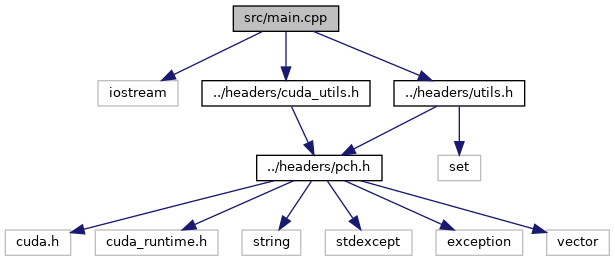
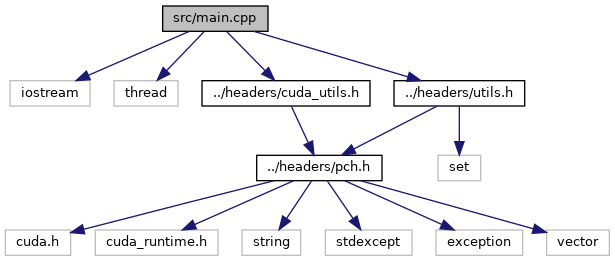
Updated doc

diff --git a/Documentation/html/main_8cpp.html b/Documentation/html/main_8cpp.html
@@ -77,6 +77,7 @@ $(function() {
 <p>Main file.  
 <a href="#details">More...</a></p>
 <div class="textblock"><code>#include &lt;iostream&gt;</code><br />
+<code>#include &lt;thread&gt;</code><br />
 <code>#include &quot;<a class="el" href="cuda__utils_8h_source.html">../headers/cuda_utils.h</a>&quot;</code><br />
 <code>#include &quot;<a class="el" href="utils_8h_source.html">../headers/utils.h</a>&quot;</code><br />
 </div><div class="textblock"><div class="dynheader">
@@ -84,8 +85,9 @@ Include dependency graph for main.cpp:</div>
 <div class="dyncontent">
 <div class="center"><img src="main_8cpp__incl.png" border="0" usemap="#asrc_2main_8cpp" alt=""/></div>
 <map name="asrc_2main_8cpp" id="asrc_2main_8cpp">
-<area shape="rect" title="Main file." alt="" coords="233,5,339,32"/>
-<area shape="rect" title=" " alt="" coords="98,80,178,107"/>
+<area shape="rect" title="Main file." alt="" coords="163,5,268,32"/>
+<area shape="rect" title=" " alt="" coords="10,80,90,107"/>
+<area shape="rect" title=" " alt="" coords="114,80,178,107"/>
 <area shape="rect" href="cuda__utils_8h.html" title="Holds CUDA utilities." alt="" coords="202,80,370,107"/>
 <area shape="rect" href="utils_8h.html" title="Provides utility functions." alt="" coords="394,80,525,107"/>
 <area shape="rect" href="pch_8h.html" title="Precompiled header." alt="" coords="257,155,382,181"/>

diff --git a/Documentation/latex/main_8cpp.tex b/Documentation/latex/main_8cpp.tex
@@ -6,9 +6,11 @@ Main file.
 
 
 {\ttfamily \#include $<$iostream$>$}\newline
+{\ttfamily \#include $<$thread$>$}\newline
 {\ttfamily \#include \char`\"{}../headers/cuda\+\_\+utils.\+h\char`\"{}}\newline
 {\ttfamily \#include \char`\"{}../headers/utils.\+h\char`\"{}}\newline
-Include dependency graph for main.\+cpp\+:\nopagebreak
+Include dependency graph for main.\+cpp\+:
+\nopagebreak
 \begin{figure}[H]
 \begin{center}
 \leavevmode
